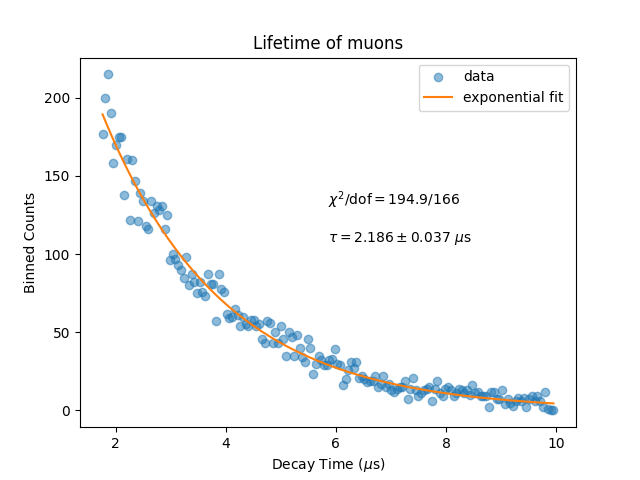
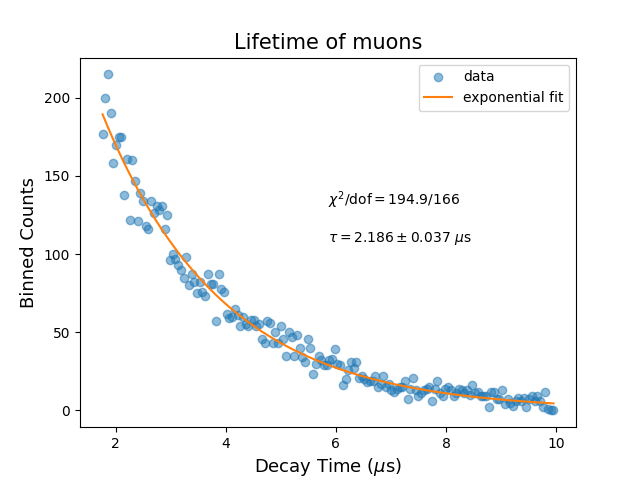
touch up images for presentation

Changed region(s): [[0.375, 0.0625, 0.6562, 0.125], [0.4062, 0.9375, 0.625, 1.0], [0.0312, 0.375, 0.0625, 0.6562]]

diff --git a/Exp1-CosmicRayMuons/lifetime_analysis.py b/Exp1-CosmicRayMuons/lifetime_analysis.py
@@ -45,7 +45,7 @@ if USE_BACKGROUND:
     popt, pcov = fit_exponential_decay(x, y)
     # compute the chi-squared
     y_pred = exponential_decay(x, *popt)
-    print((y - y_pred)**2 / y_pred)
+    # print((y - y_pred)**2 / y_pred)
     chi_squared = np.sum((y - y_pred)**2 / y_pred)
     dof = len(y) - len(popt)
 else:
@@ -54,6 +54,8 @@ else:
     y_pred = pure_exponential_decay(x, *popt)
     chi_squared = np.sum((y - y_pred)**2 / y_pred)
     dof = len(y) - len(popt)
+
+# print(popt)
 
 # compute tau (the mean lifetime) in microseconds
 tau = popt[1] * TIME_PER_BIN
@@ -74,8 +76,8 @@ plt.text(0.5, 0.6, f'$\\chi^2 / \\text{{dof}} = {chi_squared:.1f} / {dof}$', tra
 plt.text(0.5, 0.5, f'$\\tau = {tau:.3f} \pm {tau_err:.3f}$ $\\mu$s', transform=plt.gca().transAxes)
 
 
-plt.title('Lifetime of muons')
-plt.xlabel('Decay Time ($\\mu$s)')
-plt.ylabel('Binned Counts')
+plt.title('Lifetime of muons', fontsize=15)
+plt.xlabel('Decay Time ($\\mu$s)', fontsize=13)
+plt.ylabel('Binned Counts', fontsize=13)
 plt.legend()
 plt.savefig('./images/lifetime_weekend.png')

diff --git a/Exp1-CosmicRayMuons/load_data.py b/Exp1-CosmicRayMuons/load_data.py
@@ -53,14 +53,15 @@ def remove_zeros_on_margin(counts):
     return counts, i
 
 if __name__ == '__main__':
-    filename = '150cmlongrun' 
+    filename = 'lifetime_settings_calib'
     counts = read_data(filename)
 
     # print the indices where counts > 10000
     # print(np.where(counts >= max(counts)))
 
     plt.plot(counts)
-    plt.title(f'{filename}')
-    plt.xlabel('Voltage bin')
-    plt.ylabel('Counts')
+    # plt.title(f'{filename}')
+    plt.title('Time to Voltage Calibration', fontsize=15)
+    plt.xlabel('Voltage bin', fontsize=13)
+    plt.ylabel('Counts', fontsize=13)
     plt.savefig(f'./images/{filename}.png')
